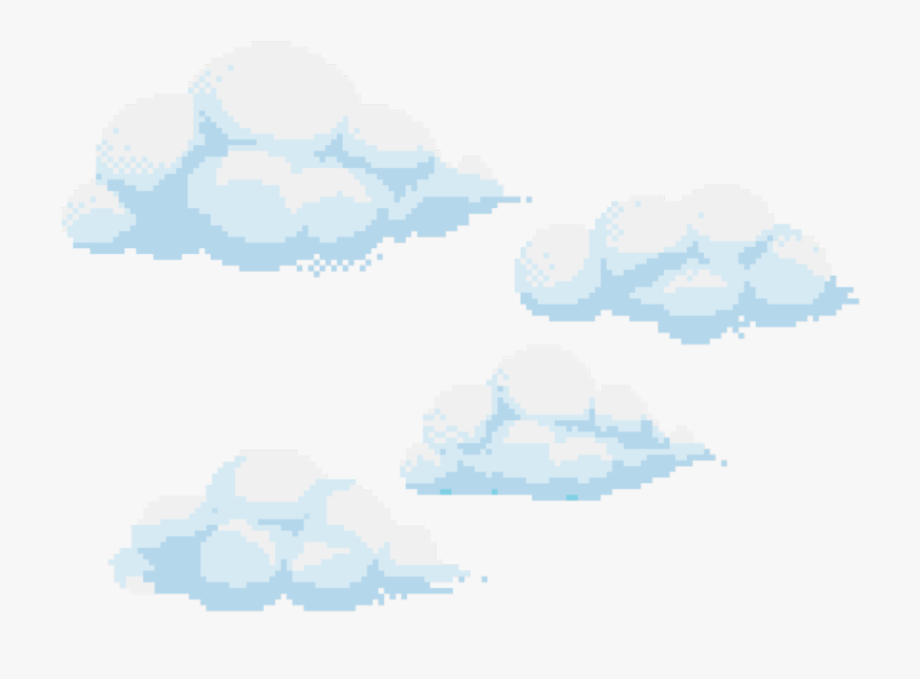
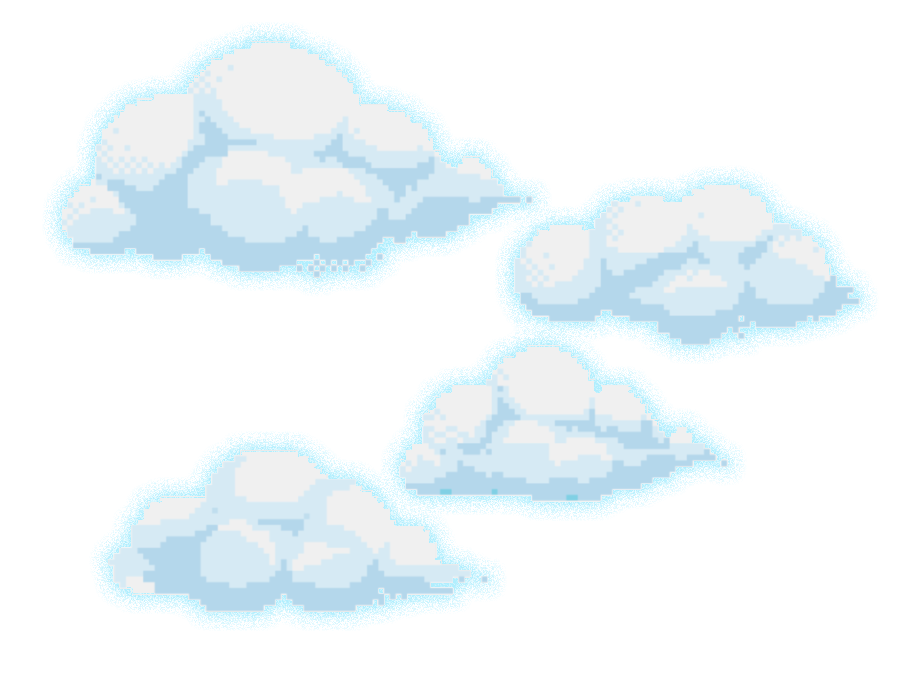
prova

diff --git a/sketch.js b/sketch.js
@@ -7,12 +7,13 @@ let cx, cy
 function preload() {
   snow_1 = loadImage("./assets/snow_1.png");
   snow_2 = loadImage("./assets/snow_2.png");
-  pum = loadImage("./assets/pumpkin.png")
+  clouds = loadImage("./assets/clouds.png")
 }
 
 function setup() {
   createCanvas(windowWidth,windowHeight);
   angleMode(DEGREES);
+  imageMode(CENTER)
 
   setShakeThreshold(20); // by defaults equals to 30, a little more sensitive
   frameRate(12);
@@ -25,8 +26,8 @@ function setup() {
 }
 
 function draw() {
-
   background(value);
+  image(clouds, width/2,100, 500, 300)
   fill(255 - value);
   textSize(150 - value);
   textAlign(CENTER);
